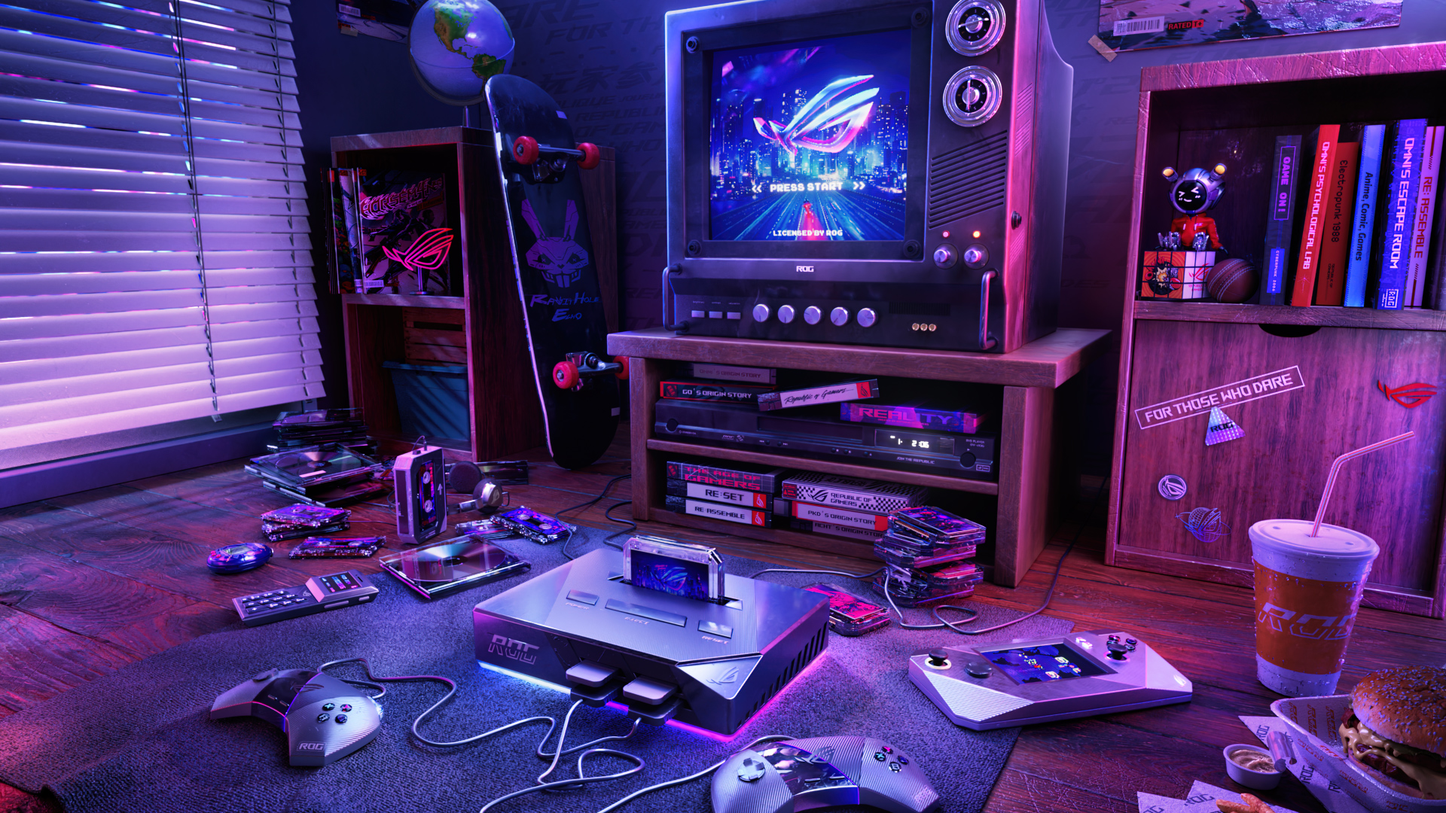
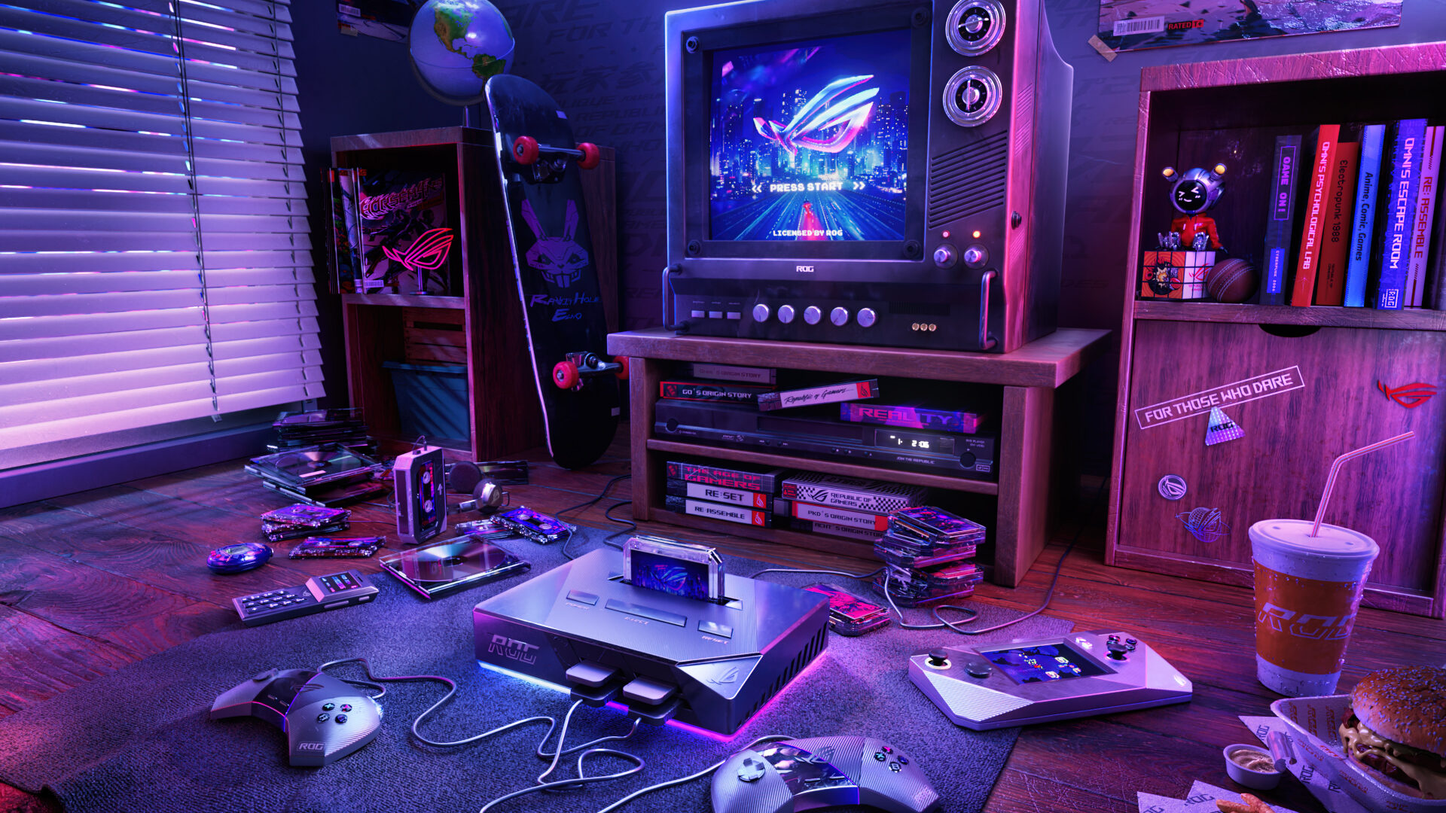
refactor: centralizar JS en js/main.js y optimizar imágenes pesadas

diff --git a/js/main.js b/js/main.js
@@ -1,0 +1,84 @@
+/**
+ * GameStore — main.js
+ * Lógica compartida entre páginas: menú hamburguesa, carrusel y formulario multi-paso.
+ * Antes esta lógica estaba duplicada dentro de cada archivo .html; ahora vive en un solo lugar.
+ */
+
+const GameStore = (function () {
+
+  // ── Menú hamburguesa (usado en las 4 páginas) ──
+  function initMenuToggle() {
+    const toggle = document.getElementById('menuToggle');
+    const menu = document.getElementById('menu');
+    if (toggle && menu) {
+      toggle.addEventListener('click', function () {
+        menu.classList.toggle('active');
+      });
+    }
+  }
+
+  // ── Carrusel Bootstrap (usado en inicio.html y contacto.html) ──
+  function initCarousel(selector, interval) {
+    document.addEventListener('DOMContentLoaded', function () {
+      const el = document.querySelector(selector);
+      if (el && typeof bootstrap !== 'undefined') {
+        new bootstrap.Carousel(el, { interval: interval, ride: 'carousel' });
+      }
+    });
+  }
+
+  // ── Formulario multi-paso (usado en inicio.html y contacto.html) ──
+  // options: { formId, successTitle, successText }
+  function initMultiStepForm(options) {
+    const form = document.getElementById(options.formId);
+    if (!form) return;
+
+    const steps = form.querySelectorAll('.step');
+    const dots = [document.getElementById('dot1'), document.getElementById('dot2'), document.getElementById('dot3')];
+    const lines = [document.getElementById('line1'), document.getElementById('line2')];
+    let current = 0;
+
+    function goTo(n) {
+      steps[current].style.display = 'none';
+      dots[current].classList.remove('active');
+      if (n > current) {
+        dots[current].classList.add('done');
+        if (lines[current]) lines[current].classList.add('done');
+      }
+      current = n;
+      steps[current].style.display = 'block';
+      dots[current].classList.add('active');
+    }
+
+    form.querySelectorAll('.btn-next').forEach(btn => btn.addEventListener('click', () => {
+      const inputs = steps[current].querySelectorAll('input, textarea');
+      for (let i of inputs) { if (!i.checkValidity()) { i.reportValidity(); return; } }
+      if (current < steps.length - 1) goTo(current + 1);
+    }));
+
+    form.querySelectorAll('.btn-prev').forEach(btn => btn.addEventListener('click', () => {
+      if (current > 0) goTo(current - 1);
+    }));
+
+    form.addEventListener('submit', function (e) {
+      e.preventDefault();
+      Swal.fire({
+        title: options.successTitle,
+        text: options.successText,
+        icon: 'success',
+        confirmButtonColor: '#ff2d55',
+        timer: 3000,
+        timerProgressBar: true,
+      });
+      this.reset();
+      steps.forEach((s, i) => { s.style.display = i === 0 ? 'block' : 'none'; });
+      dots.forEach(d => { d.classList.remove('active', 'done'); });
+      lines.forEach(l => { if (l) l.classList.remove('done'); });
+      dots[0].classList.add('active');
+      current = 0;
+    });
+  }
+
+  return { initMenuToggle, initCarousel, initMultiStepForm };
+
+})();

diff --git a/contacto.html b/contacto.html
@@ -227,68 +227,20 @@
       </div>
     </div>
     <div class="footer-bottom">
-      <p>© 2025 <span>GameStore</span> · DISEÑO WEB II· VHHM</p>
+      <p>© 2025 <span>GameStore</span> · Programación y Servicios WEB · CIAF III Semestre</p>
       <p>Hecho con <span>♥</span> para gamers</p>
     </div>
   </footer>
 
   <script src="https://cdn.jsdelivr.net/npm/bootstrap@5.3.2/dist/js/bootstrap.bundle.min.js"></script>
+  <script src="js/main.js"></script>
   <script>
-    document.getElementById('menuToggle').addEventListener('click', function () {
-      document.getElementById('menu').classList.toggle('active');
-    });
-
-    document.addEventListener('DOMContentLoaded', function () {
-      const el = document.querySelector('#CarruselContact');
-      if (el && typeof bootstrap !== 'undefined') {
-        new bootstrap.Carousel(el, { interval: 3000, ride: 'carousel' });
-      }
-    });
-
-    // Formulario multi-paso
-    const steps  = document.querySelectorAll('.step');
-    const dots   = [document.getElementById('dot1'), document.getElementById('dot2'), document.getElementById('dot3')];
-    const lines  = [document.getElementById('line1'), document.getElementById('line2')];
-    let current  = 0;
-
-    function goTo(n) {
-      steps[current].style.display = 'none';
-      dots[current].classList.remove('active');
-      if (n > current) {
-        dots[current].classList.add('done');
-        if (lines[current]) lines[current].classList.add('done');
-      }
-      current = n;
-      steps[current].style.display = 'block';
-      dots[current].classList.add('active');
-    }
-
-    document.querySelectorAll('.btn-next').forEach(btn => btn.addEventListener('click', () => {
-      const inputs = steps[current].querySelectorAll('input, textarea');
-      for (let i of inputs) { if (!i.checkValidity()) { i.reportValidity(); return; } }
-      if (current < steps.length - 1) goTo(current + 1);
-    }));
-
-    document.querySelectorAll('.btn-prev').forEach(btn => btn.addEventListener('click', () => {
-      if (current > 0) goTo(current - 1);
-    }));
-
-    document.getElementById('contactForm').addEventListener('submit', function (e) {
-      e.preventDefault();
-      Swal.fire({
-        title: '¡Mensaje enviado!',
-        text: 'Te responderemos pronto. ¡Gracias por escribirnos!',
-        icon: 'success',
-        confirmButtonColor: '#ff2d55',
-        timer: 3000,
-        timerProgressBar: true,
-      });
-      this.reset();
-      steps.forEach((s, i) => { s.style.display = i === 0 ? 'block' : 'none'; });
-      dots.forEach(d => { d.classList.remove('active','done'); });
-      lines.forEach(l => l.classList.remove('done'));
-      dots[0].classList.add('active');
-      current = 0;
+    GameStore.initMenuToggle();
+    GameStore.initCarousel('#CarruselContact', 3000);
+    GameStore.initMultiStepForm({
+      formId: 'contactForm',
+      successTitle: '¡Mensaje enviado!',
+      successText: 'Te responderemos pronto. ¡Gracias por escribirnos!'
     });
   </script>
 </body>

diff --git a/inicio.html b/inicio.html
@@ -350,67 +350,20 @@
       </div>
     </div>
     <div class="footer-bottom">
-      <p>© 2025 <span>GameStore</span> · DISEÑO WEB II· VHHM</p>
+      <p>© 2025 <span>GameStore</span> · Programación y Servicios WEB · CIAF III Semestre</p>
       <p>Hecho con <span>♥</span> para gamers</p>
     </div>
   </footer>
 
   <script src="https://cdn.jsdelivr.net/npm/bootstrap@5.3.2/dist/js/bootstrap.bundle.min.js"></script>
+  <script src="js/main.js"></script>
   <script>
-    // Navbar hamburguesa
-    document.getElementById('menuToggle').addEventListener('click', function () {
-      document.getElementById('menu').classList.toggle('active');
-    });
-
-    // Carrusel
-    document.addEventListener('DOMContentLoaded', function () {
-      const el = document.querySelector('#Carrusel');
-      if (el && typeof bootstrap !== 'undefined') {
-        new bootstrap.Carousel(el, { interval: 3500, ride: 'carousel' });
-      }
-    });
-
-    // Formulario multi-paso
-    const steps   = document.querySelectorAll('.step');
-    const dots    = [document.getElementById('dot1'), document.getElementById('dot2'), document.getElementById('dot3')];
-    const lines   = [document.getElementById('line1'), document.getElementById('line2')];
-    let current   = 0;
-
-    function goTo(n) {
-      steps[current].style.display = 'none';
-      dots[current].classList.remove('active');
-      if (n > current) { dots[current].classList.add('done'); lines[current - 1 + 1] && lines[current].classList.add('done'); }
-      current = n;
-      steps[current].style.display = 'block';
-      dots[current].classList.add('active');
-    }
-
-    document.querySelectorAll('.btn-next').forEach(btn => btn.addEventListener('click', () => {
-      const inputs = steps[current].querySelectorAll('input, textarea');
-      for (let i of inputs) { if (!i.checkValidity()) { i.reportValidity(); return; } }
-      if (current < steps.length - 1) goTo(current + 1);
-    }));
-
-    document.querySelectorAll('.btn-prev').forEach(btn => btn.addEventListener('click', () => {
-      if (current > 0) goTo(current - 1);
-    }));
-
-    document.getElementById('multiStepForm').addEventListener('submit', function (e) {
-      e.preventDefault();
-      Swal.fire({
-        title: '¡Registro exitoso!',
-        text: 'Bienvenido a GameStore. ¡A jugar!',
-        icon: 'success',
-        confirmButtonColor: '#ff2d55',
-        timer: 3000,
-        timerProgressBar: true,
-      });
-      this.reset();
-      steps.forEach((s, i) => { s.style.display = i === 0 ? 'block' : 'none'; });
-      dots.forEach(d => { d.classList.remove('active','done'); });
-      lines.forEach(l => l.classList.remove('done'));
-      dots[0].classList.add('active');
-      current = 0;
+    GameStore.initMenuToggle();
+    GameStore.initCarousel('#Carrusel', 3500);
+    GameStore.initMultiStepForm({
+      formId: 'multiStepForm',
+      successTitle: '¡Registro exitoso!',
+      successText: 'Bienvenido a GameStore. ¡A jugar!'
     });
   </script>
 </body>

diff --git a/acerca_de.html b/acerca_de.html
@@ -133,15 +133,14 @@
       </div>
     </div>
     <div class="footer-bottom">
-      <p>© 2025 <span>GameStore</span> · DISEÑO WEB II· VHHM</p>
+      <p>© 2025 <span>GameStore</span> · Programación y Servicios WEB · CIAF III Semestre</p>
       <p>Hecho con <span>♥</span> para gamers</p>
     </div>
   </footer>
 
+  <script src="js/main.js"></script>
   <script>
-    document.getElementById('menuToggle').addEventListener('click', function () {
-      document.getElementById('menu').classList.toggle('active');
-    });
+    GameStore.initMenuToggle();
   </script>
 </body>
 </html>

diff --git a/grillas.html b/grillas.html
@@ -252,15 +252,14 @@
       </div>
     </div>
     <div class="footer-bottom">
-      <p>© 2025 <span>GameStore</span> · DISEÑO WEB II· VHHM</p>
+      <p>© 2025 <span>GameStore</span> · Programación y Servicios WEB · CIAF III Semestre</p>
       <p>Hecho con <span>♥</span> para gamers</p>
     </div>
   </footer>
 
+  <script src="js/main.js"></script>
   <script>
-    document.getElementById('menuToggle').addEventListener('click', function () {
-      document.getElementById('menu').classList.toggle('active');
-    });
+    GameStore.initMenuToggle();
   </script>
 </body>
 </html>
